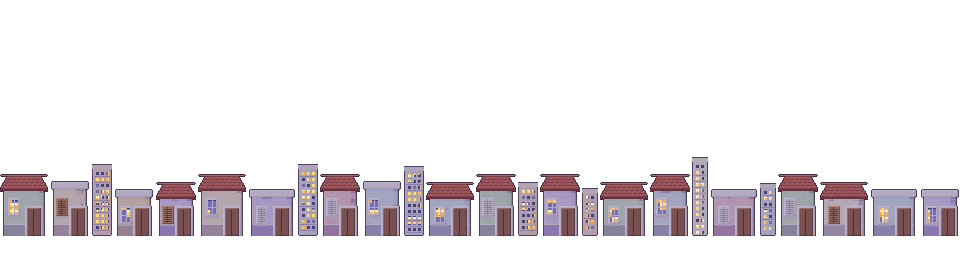
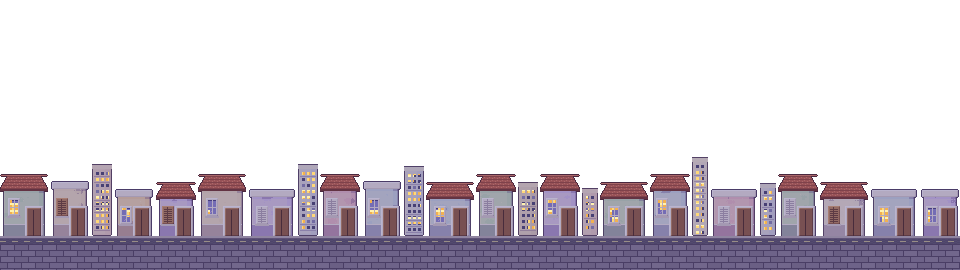
Corrige 5 bugs: gaiola, igreja, clube, prédios e hotel do voo
- Gaiola da Tia Paula: 2 barras finas fecham o vão da frente durante a luta;
  ela continua visível entre as barras. Na vitória a gaiola abre sem elas.
- Igreja Matriz: os tiles ficavam atrás dos lugares (profundidade 0 x 1), então
  a igreja escondia uma plataforma e o toldo que subia o muro. Tiles agora na
  frente; a plataforma virou tábua no buraco e o toldo virou escadinha de pedra
  encostada no muro, fora da fachada.
- Clube Itajubense: rodapé e pedestais brancos (sem pedra escura).
- Voo do tapete: a fileira de prédios ganhou rua, calçada e muro de arrimo
  embaixo (antes acabava no ar).
- Hotel Coroados: morro com topo plano e largo, hotel todo apoiado.

Claude-Session: https://claude.ai/code/session_01PQYRHBeREwxWYLdpUW5UjZ

Changed region(s): [[0.0, 0.8593, 1.0, 1.0]]

diff --git a/src/levels/itajuba.js b/src/levels/itajuba.js
@@ -14,10 +14,10 @@ export const ITAJUBA = [
   '......................................................................................................................................................................s..................ssss.................................................................................................................................##',
   '............................s.s.s.............................................................................s.....s....................................................................####...............................==................................................................................................##',
   '.....................................................................................ssss......................................ha................ss...............a......................####....................aa...........................................................................................................##',
-  '..........s.s.s...............................TTTT........TTTT..........TTTT..................................................====...............==..............###......===.....TTTT...####...................====....##..................TTTT..........................TTTT................................................##',
-  '.......................................a.........................................................................................................................###.....................####...........................##..............................................................s..s..s..s............................##',
-  '......................................###.....................................................................................................................######.....................####.........................####....................................................................................................##',
-  '...P..............a...........C.......###............C...........a............C.................a.......C.......F.........C.............K..................C..######.....................####....C.....C..............####............C...................C.....a.....C.........C................................E............##',
+  '..........s.s.s...............................TTTT........TTTT..........TTTT..................................................====...............==..............###.===.................####...................====....##..................TTTT..........................TTTT................................................##',
+  '.......................................a.........................................................................................................................###...................######...........................##..............................................................s..s..s..s............................##',
+  '......................................###.....................................................................................................................######...................######.........................####....................................................................................................##',
+  '...P..............a...........C.......###............C...........a............C.................a.......C.......F.........C.............K..................C..######...................######....C.....C..............####............C...................C.....a.....C.........C................................E............##',
   '######################################################################################..########################################################....################.....###################################...###########......################################################################################################',
   '######################################################################################..########################################################....################.....###################################...###########......################################################################################################',
 ];

diff --git a/src/scenes/Itajuba.js b/src/scenes/Itajuba.js
@@ -39,7 +39,9 @@ export class Itajuba extends Phaser.Scene {
     // --- tiles ---
     const tm = this.make.tilemap({ data: mapa.tiles, tileWidth: TILE, tileHeight: TILE });
     const tileset = tm.addTilesetImage('tiles', 'tiles', TILE, TILE, 0, 0);
-    this.camada = tm.createLayer(0, tileset, 0, 0);
+    // Os tiles ficam NA FRENTE dos lugares (profundidade 1) e das barracas: sem isso, a igreja escondia
+    // plataformas e toldos de verdade, e o pé do clube aparecia em cima da rua.
+    this.camada = tm.createLayer(0, tileset, 0, 0).setDepth(1.5);
     this.camada.setCollision([TIPO_TILE.chaoTopo, TIPO_TILE.chao]);
     // plataformas e toldos: só colidem por cima (dá para subir por baixo)
     this.camada.forEachTile((t) => {
@@ -215,7 +217,7 @@ export class Itajuba extends Phaser.Scene {
 
   // Barracas da feira: postes e balcão com frutas embaixo de cada sequência de toldos.
   desenharBarracas(mapa) {
-    const g = this.add.graphics();
+    const g = this.add.graphics().setDepth(1.2); // na frente dos lugares, atrás dos tiles
     mapa.tiles.forEach((fila, lin) => {
       let inicio = -1;
       for (let col = 0; col <= fila.length; col++) {

diff --git a/ferramentas/arte/gerar_lugares.py b/ferramentas/arte/gerar_lugares.py
@@ -38,9 +38,11 @@ TELA_L, TELA_A = 480, 270
 def clube():
     L, A = 264, 178
     t = Tela(L, A, semente=11)
-    cr, br, mm = M['creme'], M['branco'], M['marmore']
+    # Decisão do Pedro (01/11/2026): o clube é todo branco. O rodapé e os pedestais, que na foto são de pedra
+    # escura, usam o mesmo branco das molduras (juntas claras, sem veios).
+    cr, br, mm = M['creme'], M['branco'], M['branco']
     base = A - 1
-    rod = A - 24          # topo do rodapé de pedra escura
+    rod = A - 24          # topo do rodapé
     # --- corpo principal ---
     t.parede(4, 40, L - 5, base, cr, 1)
     # sombra na metade direita de cada ala (leve volume) e alas laterais um pouco recuadas
@@ -130,22 +132,16 @@ def clube():
                     t.hlinha(xx, xx + 4, yy, br, 2)
                 t.ret(xx, 142, xx + 4, rod + 3, br, 2)
                 t.relevo(t.mascara_ret(xx, 142, xx + 4, rod + 3))
-    # --- rodapé de pedra escura (mármore com veios) ---
-    t.ret(4, rod, L - 5, base, mm, 2)
+    # --- rodapé branco (blocos com juntas claras) ---
+    t.ret(4, rod, L - 5, base, mm, 1)
     t.hlinha(4, L - 5, rod, mm, 0)
-    t.hlinha(4, L - 5, rod + 1, mm, 1)
+    t.hlinha(4, L - 5, rod + 1, mm, 0)
     for y in range(rod + 2, base + 1, 8):
-        t.hlinha(4, L - 5, y + 7, mm, 4)
+        t.hlinha(4, L - 5, y + 7, mm, 2)
         off = 0 if (y // 8) % 2 else 12
         for x in range(4 + off, L - 5, 24):
-            t.vlinha(x, y, min(base, y + 7), mm, 4)
-            t.vlinha(x + 1, y, min(base, y + 7), mm, 1)
-    for _ in range(26):  # veios diagonais do mármore
-        x = t.rnd.randint(6, L - 8)
-        y = t.rnd.randint(rod + 3, base - 2)
-        for k in range(t.rnd.randint(3, 7)):
-            if t.mat[y + k // 3 if y + k // 3 < A else y, x + k] == mm:
-                t.tom[min(A - 1, y + k // 3), min(L - 1, x + k)] = t.rnd.choice((1, 3))
+            t.vlinha(x, y, min(base, y + 7), mm, 2)
+            t.vlinha(x + 1, y, min(base, y + 7), mm, 0)
     # escada: degraus diante das portas
     for i, y in enumerate(range(rod + 6, base + 1, 3)):
         t.ret(cx0 + 4 - i * 2, y, cx1 - 4 + i * 2, y + 2, M['concreto'], 2)
@@ -157,16 +153,12 @@ def clube():
         cx -= 3
         x0, x1 = cx - 5, cx + 5
         # pedestal
-        t.ret(x0 - 3, rod - 14, x1 + 3, base, mm, 2)
+        t.ret(x0 - 3, rod - 14, x1 + 3, base, mm, 1)
         t.relevo(t.mascara_ret(x0 - 3, rod - 14, x1 + 3, base))
-        t.ret(x0 - 4, rod - 16, x1 + 4, rod - 14, mm, 1)
+        t.ret(x0 - 4, rod - 16, x1 + 4, rod - 14, mm, 0)
         t.hlinha(x0 - 4, x1 + 4, rod - 16, mm, 0)
-        t.vlinha(x1 + 3, rod - 13, base, mm, 4)
-        t.vlinha(x0 - 3, rod - 13, base, mm, 1)
-        for vy in range(rod - 10, base, 7):
-            t.px(x0, vy, mm, 0)
-            t.px(x0 + 1, vy + 1, mm, 1)
-            t.px(x1 - 1, vy + 3, mm, 3)
+        t.vlinha(x1 + 3, rod - 13, base, mm, 3)
+        t.vlinha(x0 - 3, rod - 13, base, mm, 0)
         # base da coluna (toro)
         t.ret(x0 - 1, rod - 20, x1 + 1, rod - 17, br, 1)
         t.hlinha(x0 - 1, x1 + 1, rod - 17, br, 3)

diff --git a/ferramentas/arte/gerar_cenarios.py b/ferramentas/arte/gerar_cenarios.py
@@ -96,7 +96,38 @@ def cidade_repete(w=W):
         if rnd.rand() < 0.35:
             return PT.predio(int(rnd.randint(0, 999)), int(rnd.choice([14, 18, 22])), int(rnd.randint(40, 80)))
         return GL.casa(int(rnd.randint(0, 999)), int(rnd.choice([32, 40])), int(rnd.choice([40, 48])))
-    return faixa_repete(peca, w=w, base=236, sobrepor=-2)
+    return com_chao(faixa_repete(peca, w=w, base=236, sobrepor=-2), 236)
+
+
+def com_chao(img, topo):
+    """Rua e muro de arrimo embaixo da fileira de prédios do voo (antes ela acabava no ar, em cima da mata).
+    Do topo para baixo: calçada clara, meio-fio, rua de asfalto e um muro de pedra até o pé da imagem."""
+    a = np.array(img)
+    h, w = a.shape[:2]
+    calcada, meiofio = GL.hex_rgb('#BAB2B4'), GL.hex_rgb('#6C6274')
+    asfalto = [GL.hex_rgb(c) for c in ('#5A5466', '#524C5E')]
+    pedra = [GL.hex_rgb(c) for c in ('#8C8494', '#7E7688', '#857D8F')]
+    junta = GL.hex_rgb('#4A4256')
+    rnd = np.random.RandomState(7)
+    for y in range(topo, h):
+        for x in range(w):
+            if y < topo + 2:
+                c = calcada
+            elif y == topo + 2:
+                c = meiofio
+            elif y < topo + 8:
+                c = asfalto[(x // 3 + y) % 2]
+                if y == topo + 5 and (x // 6) % 2 == 0:
+                    c = GL.hex_rgb('#C8C08A')   # faixa tracejada da rua
+            else:
+                fila = (y - topo - 8) // 6
+                if (y - topo - 8) % 6 == 0 or (x + fila * 7) % 14 == 0:
+                    c = junta
+                else:
+                    c = pedra[((x + fila * 7) // 14 + fila) % 3]
+            a[y, x, :3] = c
+            a[y, x, 3] = 255
+    return Image.fromarray(a, 'RGBA')
 
 
 def main():

diff --git a/ferramentas/arte/previa_tapete.py b/ferramentas/arte/previa_tapete.py
@@ -107,9 +107,11 @@ def morro_coroados(w=420, h=230):
     cx = w / 2
     topo_y = 56
 
+    plato = 122   # meia largura do topo plano: o hotel (220 px) fica todo apoiado no morro, sem flutuar
+
     def perfil(x):
-        d = (x - cx) / (w / 2)
-        return topo_y + (h - topo_y) * min(1, max(0, abs(d) ** 1.6)) + 2 * math.sin(x / 9)
+        d = max(0, abs(x - cx) - plato) / (w / 2 - plato)
+        return topo_y + (h - topo_y) * min(1, d ** 1.25) + 2 * math.sin(x / 9)
 
     pasto = ['#C6E08E', '#A8CC78', '#8CB466', '#729A58']
     for x in range(w):
@@ -120,7 +122,7 @@ def morro_coroados(w=420, h=230):
     # mata atrás do hotel e nas laterais
     for _ in range(260):
         x = rnd.uniform(0, w)
-        y = perfil(x) + rnd.uniform(-2, 30) if abs(x - cx) > 70 else perfil(x) + rnd.uniform(-14, 4)
+        y = perfil(x) + rnd.uniform(-2, 30) if abs(x - cx) > plato - 10 else perfil(x) + rnd.uniform(-14, 4)
         GL._copinha(a, x, y, rnd.uniform(3.5, 6), mata)
     for _ in range(70):  # arbustos no pasto
         x = rnd.uniform(40, w - 40)

diff --git a/ferramentas/arte/previa_chefe.py b/ferramentas/arte/previa_chefe.py
@@ -97,6 +97,11 @@ def gaiola(parte, aberta=False):
         t.vlinha(x, topo + 2, BASE_G - 1, ou, 2)
         t.vlinha(x - 1 if x > x0 else x + 1, topo + 2, BASE_G - 1, ou, 0 if x < cx else 3)
     if not aberta:
+        # porta fechada: 2 barras finas (1 px) no vão da frente, para a gaiola não parecer aberta durante a luta;
+        # entre elas (7 px) o rosto e o corpo da Tia Paula continuam à vista
+        for x in (int(cx - 4), int(cx + 4)):
+            t.vlinha(x, topo + 2, BASE_G - 1, ou, 1)
+    if not aberta:
         # anel do meio só nas laterais (não passa na frente do rosto)
         t.hlinha(x0, x0 + 10, 58, ou, 1)
         t.hlinha(x1 - 10, x1, 58, ou, 1)

diff --git a/ferramentas/mapas/gerar_itajuba.py b/ferramentas/mapas/gerar_itajuba.py
@@ -62,10 +62,11 @@ bloco(158, 160, 13)
 bloco(161, 163, 11)
 put(162, 10, 'a')
 buraco(164, 168)
-linha(170, 172, 11, '=') 
+# tábua no meio do buraco (antes ficava na frente da porta da Igreja Matriz, colunas 170 a 182, que é só cenário)
+linha(165, 167, 11, '=')
 put(166, 8, 's')
-# toldo que lança para cima de um muro alto
-linha(178, 181, 11, 'T')
+# escadinha de pedra encostada no muro alto, logo depois da igreja (antes era um toldo na frente da fachada)
+bloco(183, 184, 12)
 bloco(185, 188, 9)
 for x in (185, 186, 187, 188): put(x, 8, 's')
 put(186, 4, 'h')
